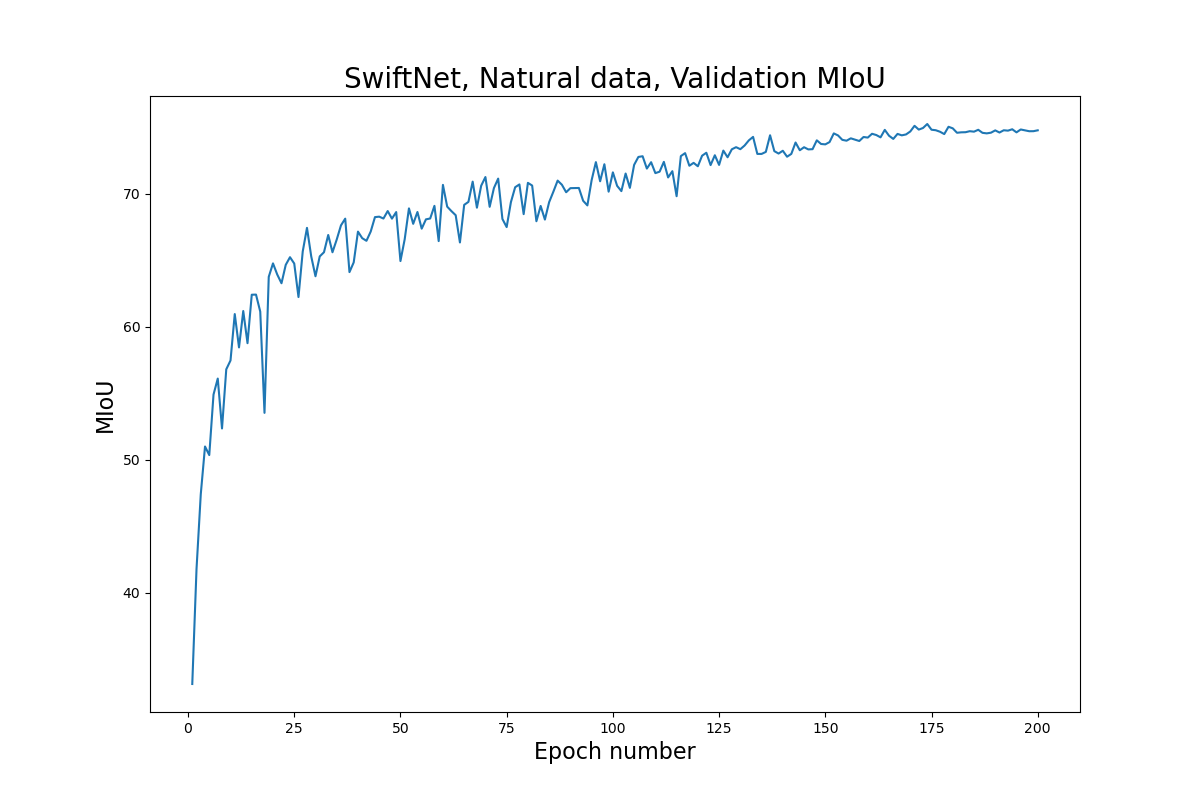
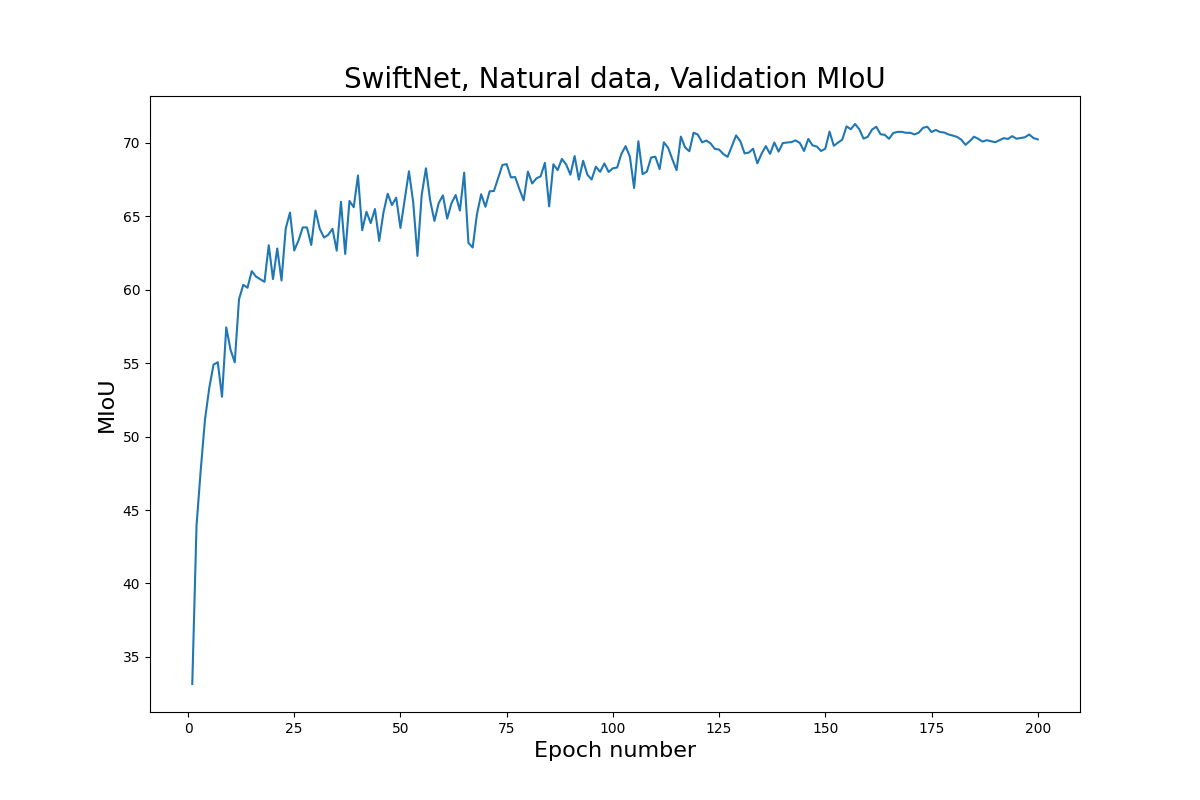
results

diff --git a/swiftnet/graph.py b/swiftnet/graph.py
@@ -103,8 +103,8 @@ if __name__ == '__main__':
 
     ### CityScapes
 
-    # graph_stats(model_name='SwiftNet, Natural data', data_path='./results/75-23_rn18_single_scale_cs/', natural=True, store_path='./graphs/natural_cityscapes')
+    # graph_stats(model_name='SwiftNet, Natural data', data_path='./results/71-28_rn18_single_scale_cs/', natural=True, store_path='./graphs/natural_cityscapes')
 
-    graph_stats(model_name='SwiftNet, IBA poisoning', data_path='./results/70-04_rn18_single_scale_iba/', natural=False, store_path='./graphs/iba_cityscapes')
+    graph_stats(model_name='SwiftNet, IBA poisoning', data_path='./results/66-14_rn18_single_scale_iba/', natural=False, store_path='./graphs/iba_nocrop_cityscapes')
 
     # get_final_epoch_stats(model_name='SwiftNet, Natural data', data_path='./results/75-23_rn18_single_scale_cs/', natural=True)
